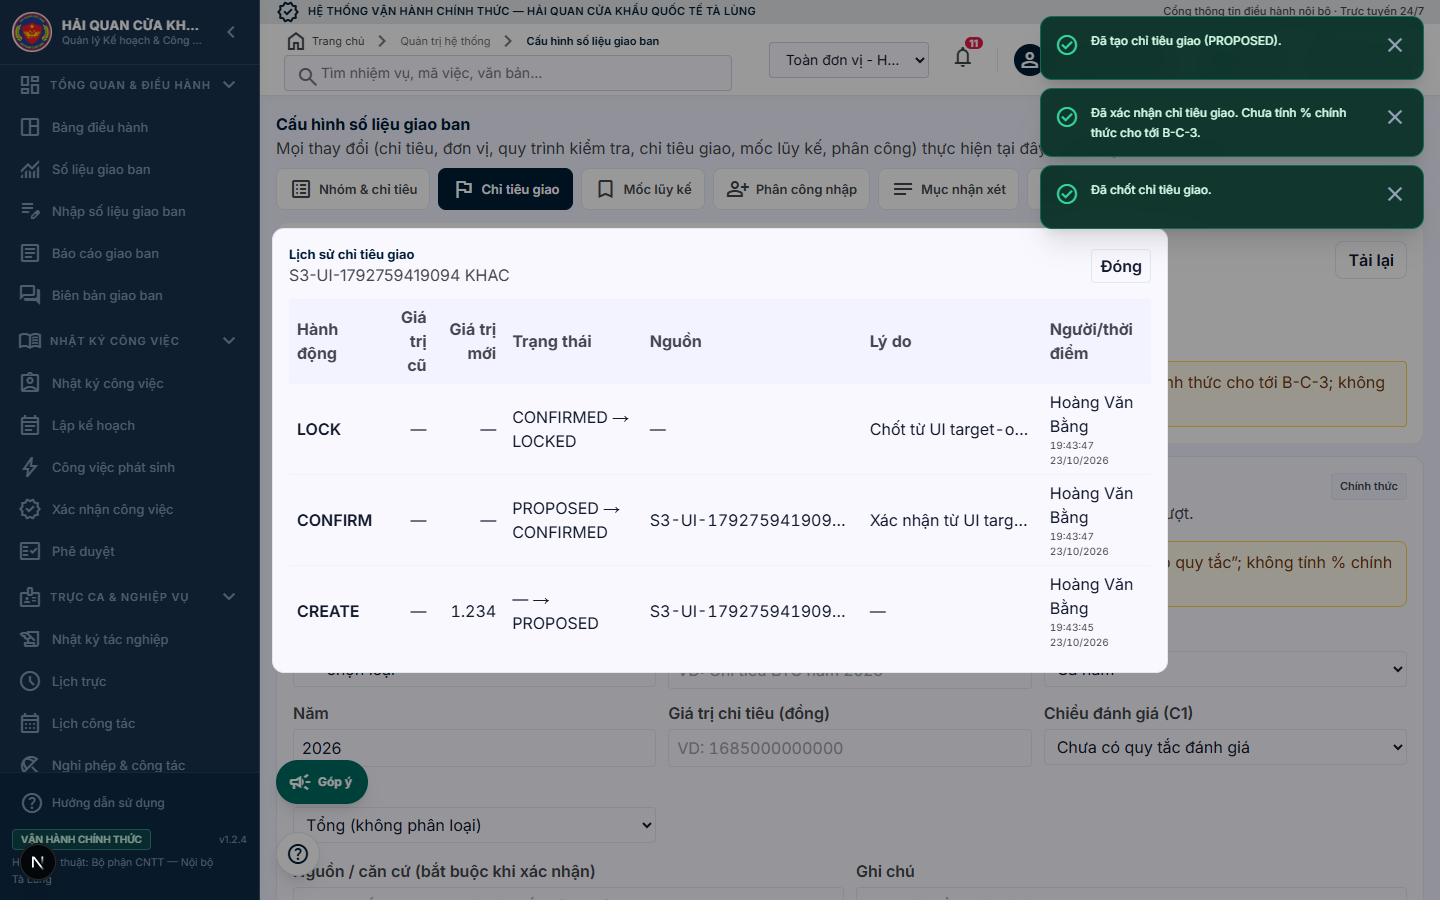
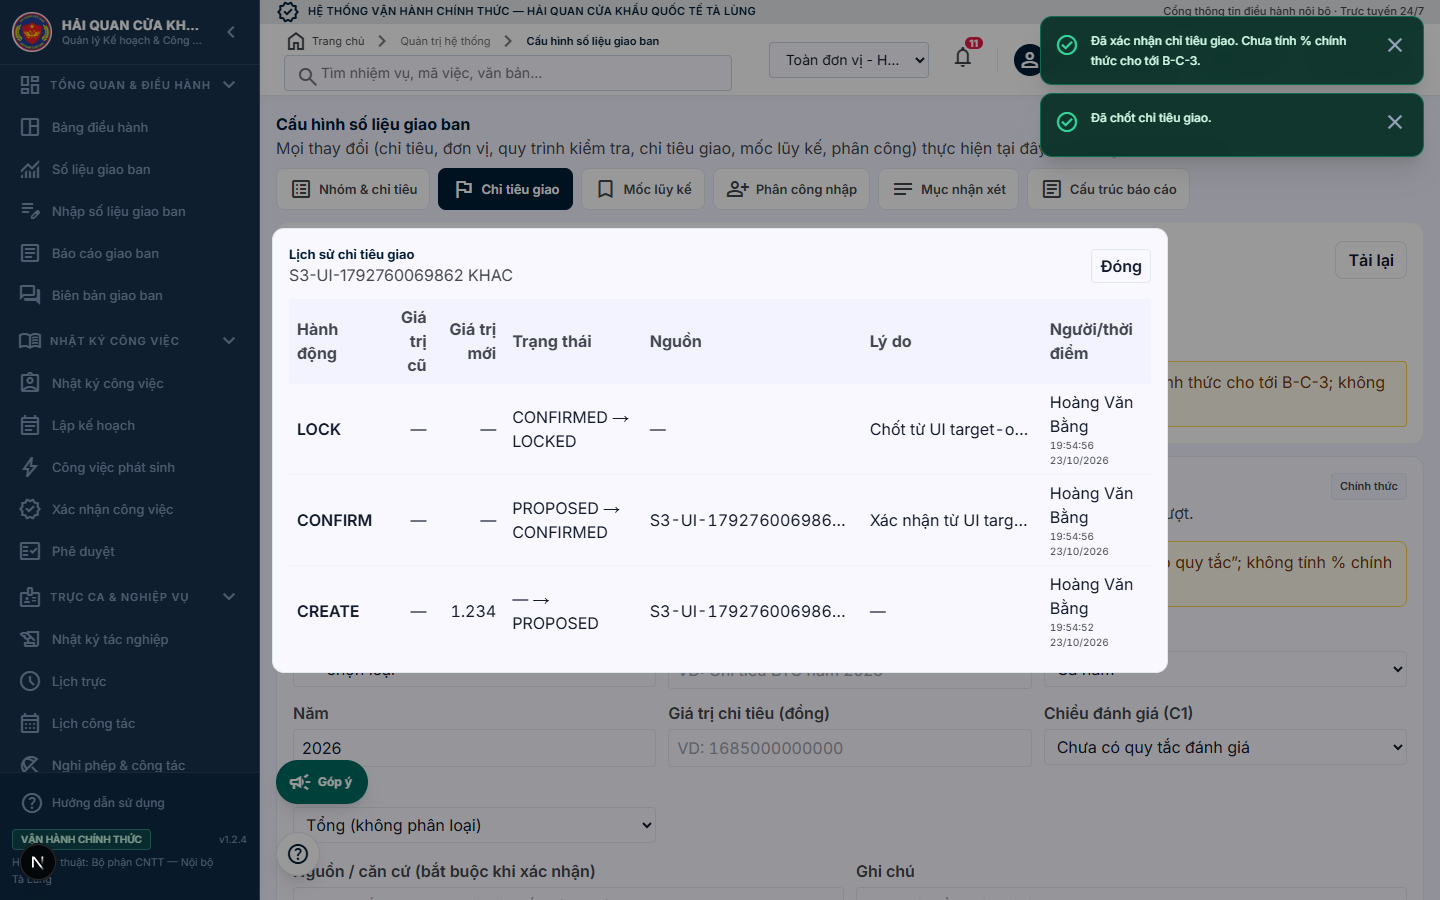
test(s3): final target UI evidence + server readiness

diff --git a/scripts/test-phase-c-target-ui.ts b/scripts/test-phase-c-target-ui.ts
@@ -50,6 +50,19 @@ function sleep(ms: number) {
   return new Promise((resolve) => setTimeout(resolve, ms));
 }
 
+async function waitForServer(): Promise<void> {
+  for (let i = 0; i < 60; i++) {
+    try {
+      const res = await fetch(`${BASE_URL}/login`, { cache: "no-store" });
+      if (res.ok || res.status === 307 || res.status === 308) return;
+    } catch {
+      /* server chưa lên */
+    }
+    await sleep(1000);
+  }
+  throw new Error(`Server ${BASE_URL} không sẵn sàng sau 60s.`);
+}
+
 async function loginToken(): Promise<string> {
   const res = await fetch(`${BASE_URL}/api/auth/login`, {
     method: "POST",
@@ -140,6 +153,7 @@ async function setControlledValue(page: Page, selector: string, value: string) {
 }
 
 async function main() {
+  await waitForServer();
   let token: string;
   try {
     token = await loginToken();
